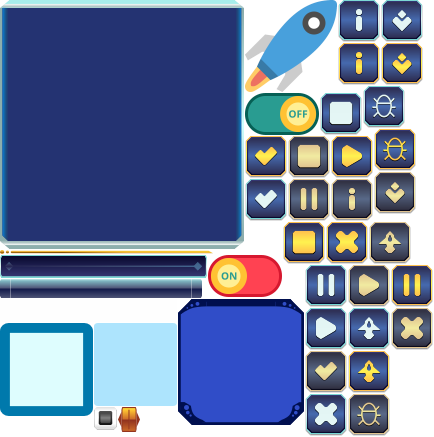
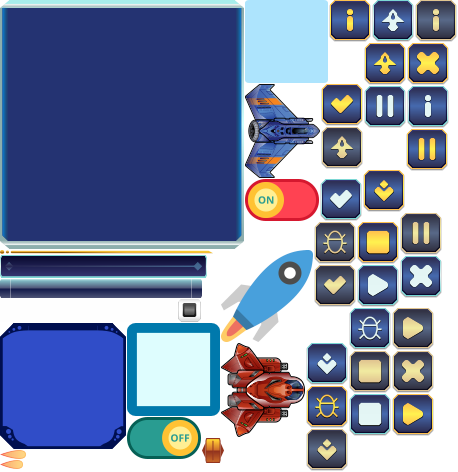
Add back fire sprites and animation file

diff --git a/game/assets/images/game_art/game_art.js b/game/assets/images/game_art/game_art.js
@@ -1,139 +1,159 @@
 {
 "frames": {
+	"backFire_1.png": {
+		"frame": {"x":0, "y":460, "w":24, "h":9},
+		"spriteSourceSize": {"x":45,"y":52,"w":113,"h":113},
+		"sourceSize": {"w":113,"h":113}
+	},
+	"backFire_2.png": {
+		"frame": {"x":0, "y":450, "w":27, "h":9},
+		"spriteSourceSize": {"x":42,"y":52,"w":113,"h":113},
+		"sourceSize": {"w":113,"h":113}
+	},
+	"blueShip.png": {
+		"frame": {"x":245, "y":84, "w":75, "h":94},
+		"spriteSourceSize": {"x":0,"y":0,"w":75,"h":94},
+		"sourceSize": {"w":75,"h":94}
+	},
 	"box_bg.png": {
 		"frame": {"x":0, "y":0, "w":244, "h":249},
 		"spriteSourceSize": {"x":0,"y":0,"w":244,"h":249},
 		"sourceSize": {"w":244,"h":249}
 	},
 	"box_bg_2.png": {
-		"frame": {"x":178, "y":299, "w":126, "h":126},
+		"frame": {"x":0, "y":323, "w":126, "h":126},
 		"spriteSourceSize": {"x":0,"y":0,"w":126,"h":126},
 		"sourceSize": {"w":126,"h":126}
 	},
 	"box_bg_3.png": {
-		"frame": {"x":0, "y":323, "w":93, "h":93},
+		"frame": {"x":127, "y":323, "w":93, "h":93},
 		"spriteSourceSize": {"x":0,"y":0,"w":93,"h":93},
 		"sourceSize": {"w":93,"h":93}
 	},
 	"box_bg_4.png": {
-		"frame": {"x":94, "y":323, "w":83, "h":83},
+		"frame": {"x":245, "y":0, "w":83, "h":83},
 		"spriteSourceSize": {"x":0,"y":0,"w":83,"h":83},
 		"sourceSize": {"w":83,"h":83}
 	},
 	"combo_but_hover.png": {
-		"frame": {"x":381, "y":43, "w":42, "h":42},
+		"frame": {"x":363, "y":170, "w":42, "h":42},
 		"spriteSourceSize": {"x":0,"y":0,"w":42,"h":42},
 		"sourceSize": {"w":42,"h":42}
 	},
 	"combo_but_normal.png": {
-		"frame": {"x":381, "y":0, "w":42, "h":42},
+		"frame": {"x":306, "y":343, "w":42, "h":42},
 		"spriteSourceSize": {"x":0,"y":0,"w":42,"h":42},
 		"sourceSize": {"w":42,"h":42}
 	},
 	"combo_but_press.png": {
-		"frame": {"x":374, "y":172, "w":42, "h":42},
+		"frame": {"x":306, "y":429, "w":42, "h":42},
 		"spriteSourceSize": {"x":0,"y":0,"w":42,"h":42},
 		"sourceSize": {"w":42,"h":42}
 	},
 	"debug_hover.png": {
-		"frame": {"x":374, "y":129, "w":42, "h":42},
+		"frame": {"x":306, "y":386, "w":42, "h":42},
 		"spriteSourceSize": {"x":0,"y":0,"w":42,"h":42},
 		"sourceSize": {"w":42,"h":42}
 	},
 	"debug_idle.png": {
-		"frame": {"x":363, "y":86, "w":42, "h":42},
+		"frame": {"x":349, "y":308, "w":42, "h":42},
 		"spriteSourceSize": {"x":0,"y":0,"w":42,"h":42},
 		"sourceSize": {"w":42,"h":42}
 	},
 	"debug_press.png": {
-		"frame": {"x":348, "y":394, "w":42, "h":42},
+		"frame": {"x":314, "y":222, "w":42, "h":42},
 		"spriteSourceSize": {"x":0,"y":0,"w":42,"h":42},
 		"sourceSize": {"w":42,"h":42}
 	},
 	"home_hover.png": {
-		"frame": {"x":348, "y":351, "w":42, "h":42},
+		"frame": {"x":364, "y":43, "w":42, "h":42},
 		"spriteSourceSize": {"x":0,"y":0,"w":42,"h":42},
 		"sourceSize": {"w":42,"h":42}
 	},
 	"home_idle.png": {
-		"frame": {"x":348, "y":308, "w":42, "h":42},
+		"frame": {"x":372, "y":0, "w":42, "h":42},
 		"spriteSourceSize": {"x":0,"y":0,"w":42,"h":42},
 		"sourceSize": {"w":42,"h":42}
 	},
 	"home_press.png": {
-		"frame": {"x":369, "y":222, "w":42, "h":42},
+		"frame": {"x":321, "y":127, "w":42, "h":42},
 		"spriteSourceSize": {"x":0,"y":0,"w":42,"h":42},
 		"sourceSize": {"w":42,"h":42}
 	},
 	"img_spaceShip.png": {
-		"frame": {"x":245, "y":0, "w":92, "h":92},
+		"frame": {"x":221, "y":250, "w":92, "h":92},
 		"spriteSourceSize": {"x":0,"y":0,"w":92,"h":92},
 		"sourceSize": {"w":92,"h":92}
 	},
 	"info_hover.png": {
-		"frame": {"x":338, "y":43, "w":42, "h":42},
+		"frame": {"x":329, "y":0, "w":42, "h":42},
 		"spriteSourceSize": {"x":0,"y":0,"w":42,"h":42},
 		"sourceSize": {"w":42,"h":42}
 	},
 	"info_idle.png": {
-		"frame": {"x":338, "y":0, "w":42, "h":42},
+		"frame": {"x":407, "y":86, "w":42, "h":42},
 		"spriteSourceSize": {"x":0,"y":0,"w":42,"h":42},
 		"sourceSize": {"w":42,"h":42}
 	},
 	"info_press.png": {
-		"frame": {"x":331, "y":179, "w":42, "h":42},
+		"frame": {"x":415, "y":0, "w":42, "h":42},
 		"spriteSourceSize": {"x":0,"y":0,"w":42,"h":42},
 		"sourceSize": {"w":42,"h":42}
 	},
 	"niceButton.png": {
-		"frame": {"x":94, "y":407, "w":23, "h":23},
+		"frame": {"x":178, "y":299, "w":23, "h":23},
 		"spriteSourceSize": {"x":0,"y":0,"w":23,"h":23},
 		"sourceSize": {"w":23,"h":23}
 	},
 	"no_hover.png": {
-		"frame": {"x":326, "y":222, "w":42, "h":42},
+		"frame": {"x":407, "y":43, "w":42, "h":42},
 		"spriteSourceSize": {"x":0,"y":0,"w":42,"h":42},
 		"sourceSize": {"w":42,"h":42}
 	},
 	"no_idle.png": {
-		"frame": {"x":305, "y":394, "w":42, "h":42},
+		"frame": {"x":400, "y":256, "w":42, "h":42},
 		"spriteSourceSize": {"x":0,"y":0,"w":42,"h":42},
 		"sourceSize": {"w":42,"h":42}
 	},
 	"no_press.png": {
-		"frame": {"x":391, "y":308, "w":42, "h":42},
+		"frame": {"x":392, "y":351, "w":42, "h":42},
 		"spriteSourceSize": {"x":0,"y":0,"w":42,"h":42},
 		"sourceSize": {"w":42,"h":42}
 	},
 	"pause_but_hover.png": {
-		"frame": {"x":391, "y":265, "w":42, "h":42},
+		"frame": {"x":406, "y":129, "w":42, "h":42},
 		"spriteSourceSize": {"x":0,"y":0,"w":42,"h":42},
 		"sourceSize": {"w":42,"h":42}
 	},
 	"pause_but_normal.png": {
-		"frame": {"x":305, "y":265, "w":42, "h":42},
+		"frame": {"x":364, "y":86, "w":42, "h":42},
 		"spriteSourceSize": {"x":0,"y":0,"w":42,"h":42},
 		"sourceSize": {"w":42,"h":42}
 	},
 	"pause_but_press.png": {
-		"frame": {"x":288, "y":179, "w":42, "h":42},
+		"frame": {"x":400, "y":213, "w":42, "h":42},
 		"spriteSourceSize": {"x":0,"y":0,"w":42,"h":42},
 		"sourceSize": {"w":42,"h":42}
 	},
 	"play_but_hover.png": {
-		"frame": {"x":331, "y":136, "w":42, "h":42},
+		"frame": {"x":392, "y":394, "w":42, "h":42},
 		"spriteSourceSize": {"x":0,"y":0,"w":42,"h":42},
 		"sourceSize": {"w":42,"h":42}
 	},
 	"play_but_normal.png": {
-		"frame": {"x":305, "y":308, "w":42, "h":42},
+		"frame": {"x":357, "y":265, "w":42, "h":42},
 		"spriteSourceSize": {"x":0,"y":0,"w":42,"h":42},
 		"sourceSize": {"w":42,"h":42}
 	},
 	"play_but_press.png": {
-		"frame": {"x":348, "y":265, "w":42, "h":42},
+		"frame": {"x":392, "y":308, "w":42, "h":42},
 		"spriteSourceSize": {"x":0,"y":0,"w":42,"h":42},
 		"sourceSize": {"w":42,"h":42}
+	},
+	"redShip.png": {
+		"frame": {"x":221, "y":343, "w":84, "h":94},
+		"spriteSourceSize": {"x":0,"y":0,"w":84,"h":94},
+		"sourceSize": {"w":84,"h":94}
 	},
 	"separator_a.png": {
 		"frame": {"x":0, "y":250, "w":213, "h":4},
@@ -151,22 +171,22 @@
 		"sourceSize": {"w":207,"h":23}
 	},
 	"slider_button.png": {
-		"frame": {"x":118, "y":407, "w":22, "h":25},
+		"frame": {"x":202, "y":438, "w":22, "h":25},
 		"spriteSourceSize": {"x":0,"y":0,"w":22,"h":25},
 		"sourceSize": {"w":22,"h":25}
 	},
 	"stop_but_hover.png": {
-		"frame": {"x":283, "y":222, "w":42, "h":42},
+		"frame": {"x":357, "y":222, "w":42, "h":42},
 		"spriteSourceSize": {"x":0,"y":0,"w":42,"h":42},
 		"sourceSize": {"w":42,"h":42}
 	},
 	"stop_but_normal.png": {
-		"frame": {"x":320, "y":93, "w":42, "h":42},
+		"frame": {"x":349, "y":394, "w":42, "h":42},
 		"spriteSourceSize": {"x":0,"y":0,"w":42,"h":42},
 		"sourceSize": {"w":42,"h":42}
 	},
 	"stop_but_press.png": {
-		"frame": {"x":288, "y":136, "w":42, "h":42},
+		"frame": {"x":349, "y":351, "w":42, "h":42},
 		"spriteSourceSize": {"x":0,"y":0,"w":42,"h":42},
 		"sourceSize": {"w":42,"h":42}
 	},
@@ -176,27 +196,27 @@
 		"sourceSize": {"w":177,"h":23}
 	},
 	"toggle_off.png": {
-		"frame": {"x":245, "y":93, "w":74, "h":42},
+		"frame": {"x":127, "y":417, "w":74, "h":42},
 		"spriteSourceSize": {"x":0,"y":0,"w":74,"h":42},
 		"sourceSize": {"w":74,"h":42}
 	},
 	"toggle_on.png": {
-		"frame": {"x":208, "y":255, "w":74, "h":42},
+		"frame": {"x":245, "y":179, "w":74, "h":42},
 		"spriteSourceSize": {"x":0,"y":0,"w":74,"h":42},
 		"sourceSize": {"w":74,"h":42}
 	},
 	"yes_hover.png": {
-		"frame": {"x":245, "y":136, "w":42, "h":42},
+		"frame": {"x":321, "y":84, "w":42, "h":42},
 		"spriteSourceSize": {"x":0,"y":0,"w":42,"h":42},
 		"sourceSize": {"w":42,"h":42}
 	},
 	"yes_idle.png": {
-		"frame": {"x":245, "y":179, "w":42, "h":42},
+		"frame": {"x":320, "y":179, "w":42, "h":42},
 		"spriteSourceSize": {"x":0,"y":0,"w":42,"h":42},
 		"sourceSize": {"w":42,"h":42}
 	},
 	"yes_press.png": {
-		"frame": {"x":305, "y":351, "w":42, "h":42},
+		"frame": {"x":314, "y":265, "w":42, "h":42},
 		"spriteSourceSize": {"x":0,"y":0,"w":42,"h":42},
 		"sourceSize": {"w":42,"h":42}
 	}
@@ -204,7 +224,7 @@
 },
 "meta": {
 	"image": "game_art.png",
-	"size": {"w": 434, "h": 437},
+	"size": {"w": 458, "h": 472},
 	"scale": "1"
 }
 }
